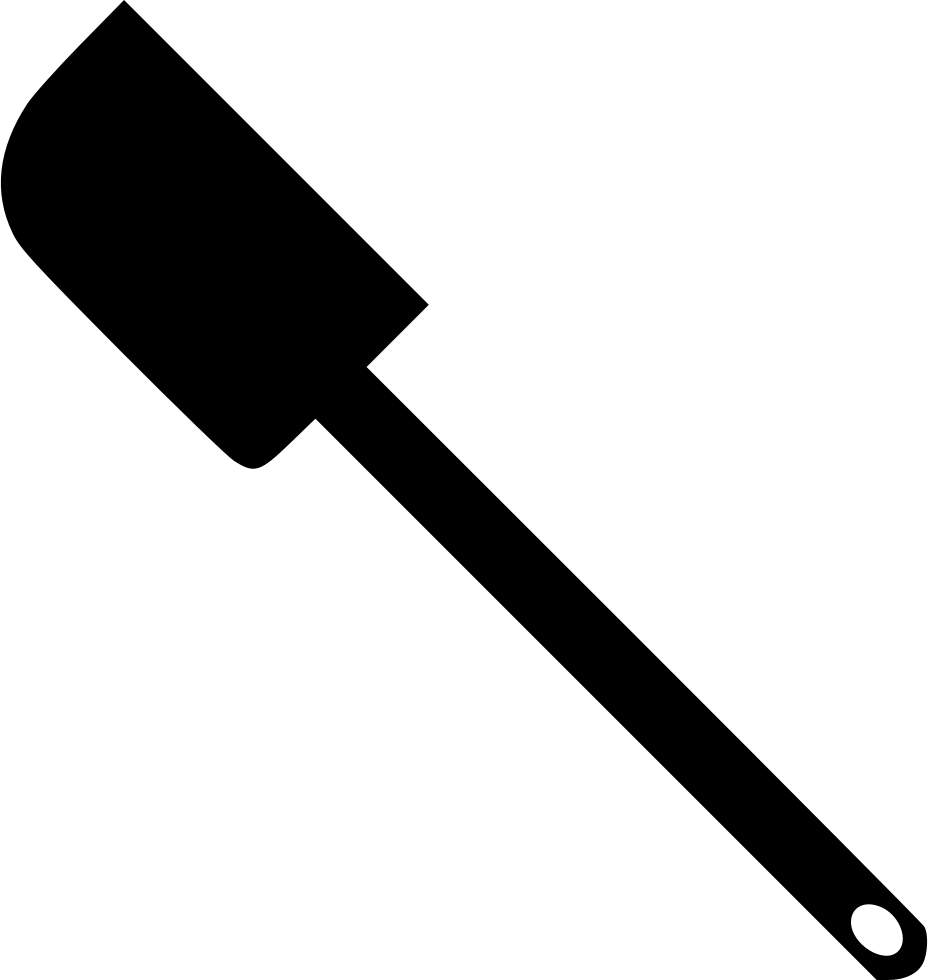
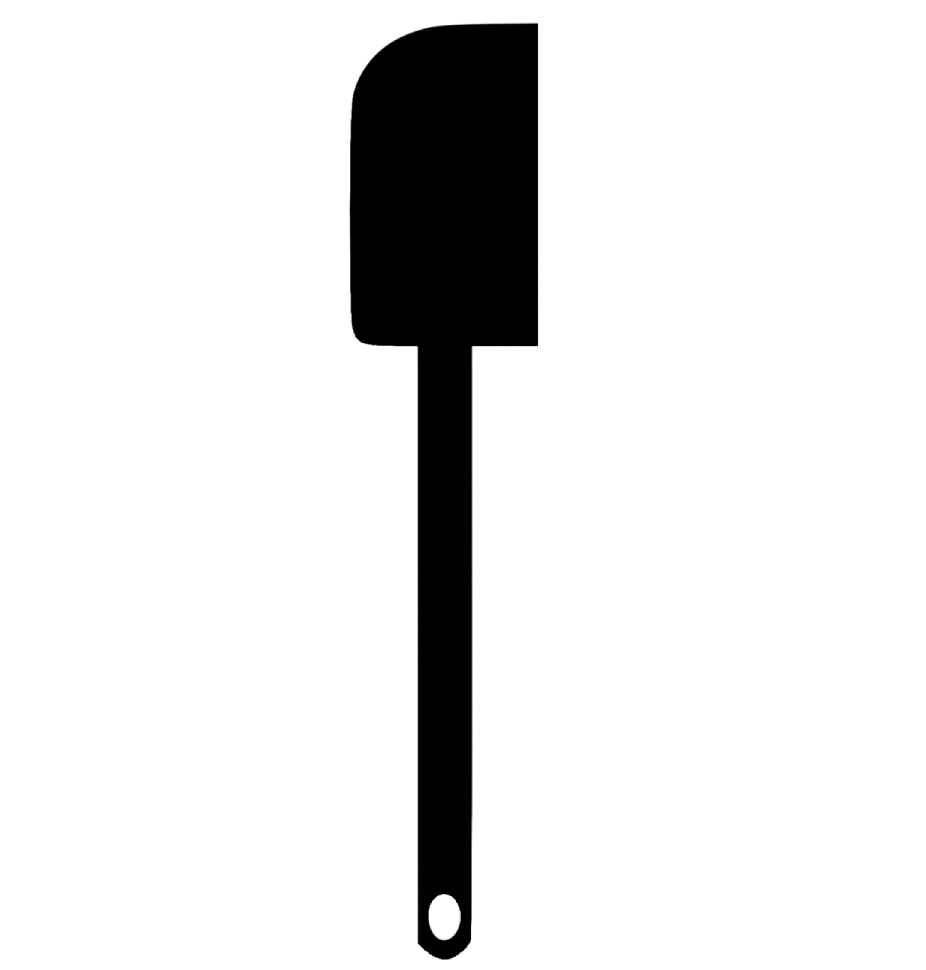
added the cake images for the page changed the spatula and letter images, added the subheading and the aboutus part of the webpage, still having issues adjusting the spatula to be centered in the about us section

Changed region(s): [[0.0, 0.0, 1.0, 1.0]]

diff --git a/src/container/AboutUs/AboutUs.css b/src/container/AboutUs/AboutUs.css
@@ -1,0 +1,90 @@
+.app__aboutus {
+    position: relative;
+    background: var(--color-dark-blue)
+}
+
+.app__aboutus-overlay {
+    position: absolute;
+    inset: 0;
+}
+
+.app__aboutus-overlay img {
+    width: 750px;
+    height: 915px;
+    z-index: 0;   
+}
+
+.app__aboutus-content {
+    width: 100%;
+    z-index: 2;
+}
+
+.app__aboutus-content_about {
+    flex: 1;
+    display: flex;
+    justify-content: flex-end;
+    align-items: center;
+    flex-direction: column;
+    
+
+    text-align: right;
+
+}
+
+.app__aboutus-content_spatula {
+    margin: 2rem 4rem;
+}
+
+.app__aboutus-content_spatula img {
+    height: 810px;
+    width: 400px;
+    display: center;
+}
+
+.app__aboutus-content_history {
+    flex: 1;
+    display: flex;
+    justify-content: flex-start;
+    align-items: center;
+    flex-direction: column;
+
+    text-align: left;
+
+}
+
+.app__aboutus-content_history p,
+.app__aboutus-content_about p{
+    margin: 2rem 0;
+    color: var(--color-grey)
+}
+
+@media screen and (max-width:2000px){
+    .app__aboutus-content_spatula img {
+        height: 1110px;
+    }
+
+    .app__aboutus-content_history p,
+    .app__aboutus-content_about p{
+    margin: 4rem 0;
+    color: var(--color-grey)
+}
+}
+
+@media screen and (max-width:900px){
+    .app__aboutus-content {
+        flex-direction: column;
+    }
+
+    .app__aboutus-content_spatula {
+        margin: 4rem 0;
+    }
+}
+
+
+
+@media screen and (max-width:650px){
+    .app__aboutus-overlay img{
+        width: 80%;
+        height: 320px;
+    }
+}

diff --git a/src/container/AboutUs/AboutUs.jsx b/src/container/AboutUs/AboutUs.jsx
@@ -1,10 +1,32 @@
 import React from 'react';
 
+import { images } from '../../constants';
 import './AboutUs.css';
 
 const AboutUs = () => (
-  <div>
-    AboutUs
+  <div className="app__aboutus app__bg flex__center section__padding" id="about" >
+    <div className="app__aboutus-overlay flex__center">
+      <img src={images.letters} alt="letter_overlay"  />
+    </div>
+    <div className="app__aboutus-content flex__center">
+      <div className="app__aboutus-content_about">
+        <h1 className="headtext__cormorant">About Us</h1>
+        <img src={images.whisk} alt="about_whisk" className="whisk__img2" style={{height: "75px" }}/>
+        <p className="p__opensans">something something something cake cake cake i love cake yum cake its good its good so is the frosting... too</p>
+        <button type="button" className="custom__button">Know more</button>
+      </div>
+
+      <div className="app__aboutus-content_spatula flex__center">
+        <img src={images.blackrubberspatula}  alt="about_spatula" />
+      </div>
+
+      <div className="app__aboutus-content_history">
+        <h1 className="headtext__cormorant">History</h1>
+        <img src={images.whisk} alt="about_whisk" className="whisk__img2" style={{height: "75px" }}/>
+        <p className="p__opensans">something something something cake cake cake i love cake yum cake its good its good so is the frosting... too</p>
+        <button type="button" className="custom__button">Know more</button>
+      </div>
+    </div>
   </div>
 );
 

diff --git a/src/container/Header/Header.css b/src/container/Header/Header.css
@@ -2,9 +2,11 @@
     background-color: var(--color-dark-blue);
 }
 
+
 .app__header-h1 {
     font-family: var(--font-base);
     color: var(--color-light-yellow);
+    font-weight: 700;
     letter-spacing: 0.04em; 
     text-transform: uppercase;
     line-height: 117px;
@@ -13,4 +15,38 @@
 
 .app__header_img img {
     width: 80%;
+}
+
+.app__wrapper_img img {
+    width: 30%;
+    height: 600px;
+    margin-left: auto;
+    display: block
+}
+
+@media screen and (min-width: 2000px) {
+    .app__header-h1 {
+        font-size: 180px;
+        line-height: 210px;
+    }
+}
+
+@media screen and (max-width: 1150px) {
+    .app__header-h1 {
+        font-size: 90px;
+    }
+}
+
+@media screen and (max-width: 650px) {
+    .app__header-h1 {
+        font-size: 70px;
+        line-height: 87px;
+    }
+}
+
+@media screen and (max-width: 450px) {
+    .app__header-h1 {
+        font-size: 50px;
+        line-height: 70px;
+    }
 }

diff --git a/src/constants/images.js b/src/constants/images.js
@@ -1,10 +1,26 @@
  import blackrubberspatula from '../assets/blackrubberspatula.png';
  import ltslogo from '../assets/ltslogo.png';
  import whisk from '../assets/whisk.png';
+ import cake1 from '../assets/cake1.jpg';
+ import cake2 from '../assets/cake2.jpg';
+ import cake3 from '../assets/cake3.jpg';
+ import cake4 from '../assets/cake4.jpg';
+ import cake5 from '../assets/cake5.jpg';
+ import cake6 from '../assets/cake6.jpg';
+ import cake7 from '../assets/cake7.jpg';
+ import letters from '../assets/letters.png';
 
 export default {
     blackrubberspatula,
     ltslogo,
     whisk,
+    cake1,
+    cake2, 
+    cake3,
+    cake4,
+    cake5,
+    cake6,
+    cake7,
+    letters,
 
 };

diff --git a/src/container/Header/Header.jsx b/src/container/Header/Header.jsx
@@ -9,11 +9,12 @@ const Header = () => (
     <div className="app__wrapper_info">
       <SubHeading title="Savour the Sweet"/>
       <h1 className="app__header-h1">Live The Sweet</h1>
-      <p className="p__opensans" style={{ margin: '2rem 0'}}>Stuff about cake and how good and delcious they are yummmmmm</p>
+      <p className="p__opensans" style={{color: '#FFFFFF', margin: '2rem 0'}}>Stuff about cake and how good and delcious they are yummmmmm</p>
       <button type="button" className="custom__button">Explore Menu</button>
     </div>
 
     <div className="app__wrapper_img">
+      <img src={images.cake2} alt="header img" />
   
     </div>
   </div>

diff --git a/src/components/SubHeading/SubHeading.jsx b/src/components/SubHeading/SubHeading.jsx
@@ -3,10 +3,10 @@ import React from 'react';
 import { images } from '../../constants';
 
 const SubHeading = ({ title }) => (
-  <div style={{ marginBottom: '1rem' }}>
+  <div style={{ marginBottom: '1rem', color: '#FFFFFF'}}>
     <p className="p__cormorant">{title}</p>
-    <img src={images.whisk} alt="whisk" className="whisk__img" />
+    <img src={images.whisk} alt="whisk" className="whisk__img" style={{ height: "100px" }}/>
   </div>
 );
 
-export default SubHeading;
+export default SubHeading; 

diff --git a/src/index.css b/src/index.css
@@ -7,7 +7,7 @@
   --color-dark-blue: #8277b0;
   --color-pastel-pink: #d4acd8;
   --color-gray: #545454;
-  --color-light-yellow: #e5f507;
+  --color-light-yellow: #FDFD96;
   --color-grey: #AAAAAA;
   --color-white: #FFFFFF;
 }
